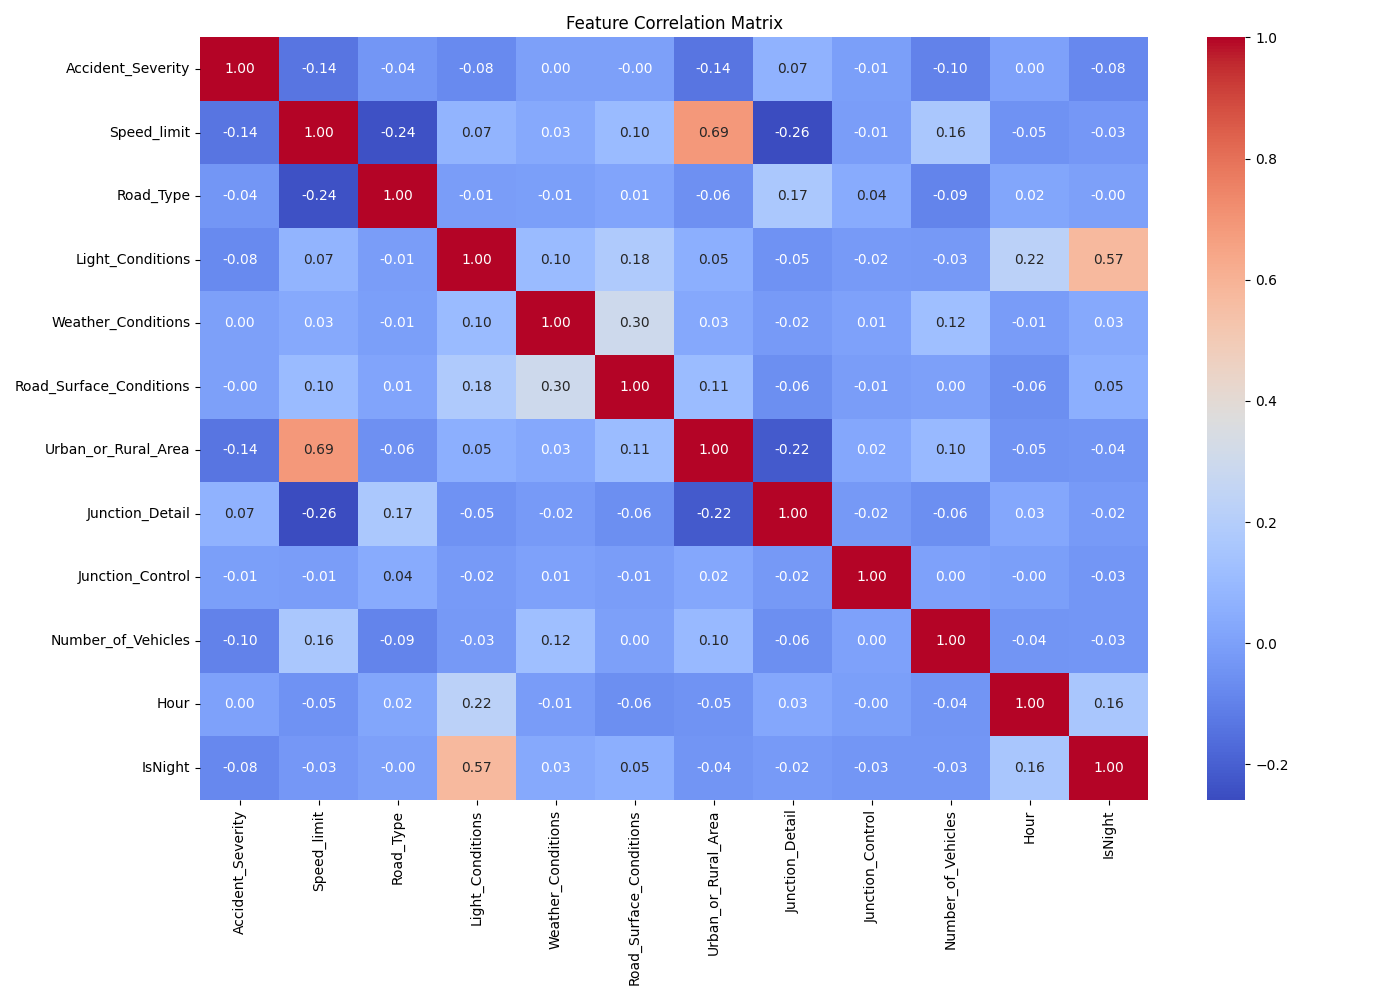
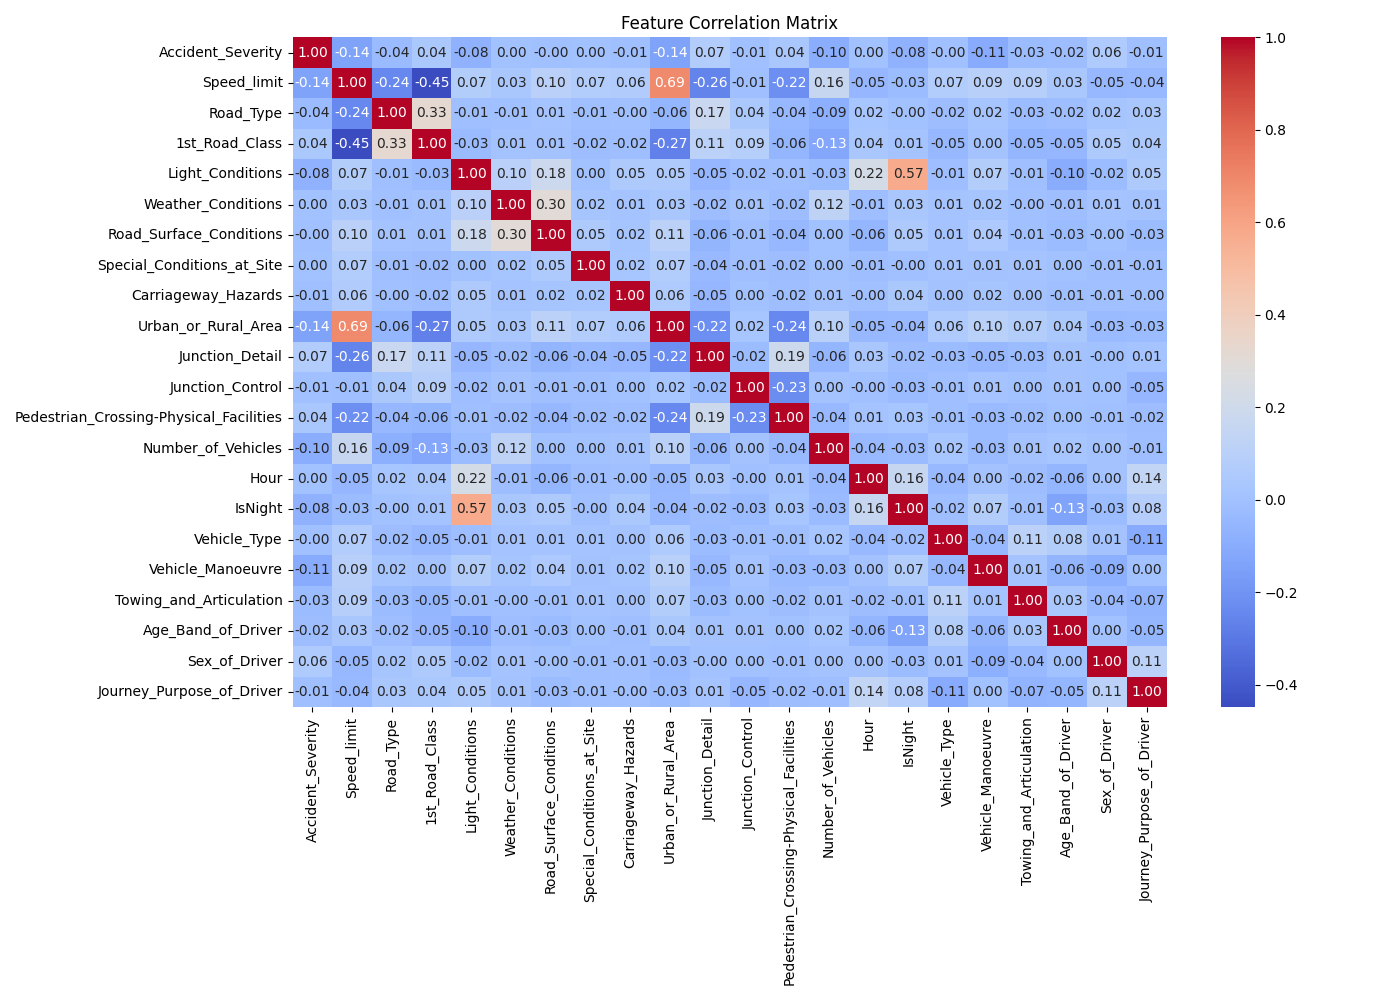
better reordering

diff --git a/src/feature_selection.py b/src/feature_selection.py
@@ -40,22 +40,27 @@ def run():
     # Hour and IsNight are kept because visibility directly affects severity.
     keep_cols = [
         'Accident_Severity',
-        'Speed_limit', 'Road_Type', 'Light_Conditions',
-        'Weather_Conditions', 'Road_Surface_Conditions', 'Urban_or_Rural_Area',
-        'Junction_Detail', 'Junction_Control', 'Number_of_Vehicles',
-        'Hour', 'IsNight'
-        # Number_of_Casualties intentionally excluded — data leakage:
-        # casualty count is only known after the accident, same time as severity.
-        # Month, DayOfWeek, IsWeekend excluded — frequency features, not severity features.
+        # Road conditions
+        'Speed_limit', 'Road_Type', '1st_Road_Class',
+        'Light_Conditions', 'Weather_Conditions', 'Road_Surface_Conditions',
+        'Special_Conditions_at_Site', 'Carriageway_Hazards',
+        'Urban_or_Rural_Area', 'Junction_Detail', 'Junction_Control',
+        'Pedestrian_Crossing-Physical_Facilities',
+        # Accident context
+        'Number_of_Vehicles', 'Hour', 'IsNight',
+        # Vehicle features
+        'Vehicle_Type', 'Vehicle_Manoeuvre', 'Towing_and_Articulation',
+        # Driver features
+        'Age_Band_of_Driver', 'Sex_of_Driver', 'Journey_Purpose_of_Driver',
+        # Excluded — data leakage (known only after crash):
+        #   Number_of_Casualties, Casualty_Severity, Skidding_and_Overturning,
+        #   Hit_Object_in_Carriageway, Vehicle_Leaving_Carriageway, 1st_Point_of_Impact
+        # Excluded — frequency not severity predictors:
+        #   Month, DayOfWeek, IsWeekend
     ]
 
     keep_cols = [c for c in keep_cols if c in df.columns]
-    missing = [c for c in [
-        'Accident_Severity', 'Speed_limit', 'Road_Type', 'Light_Conditions',
-        'Weather_Conditions', 'Road_Surface_Conditions', 'Urban_or_Rural_Area',
-        'Junction_Detail', 'Junction_Control', 'Number_of_Vehicles',
-        'Hour', 'IsNight'
-    ] if c not in df.columns]
+    missing = [c for c in keep_cols if c not in df.columns]
     if missing:
         print(f"Warning — columns not found (skipped): {missing}")
 
@@ -63,6 +68,7 @@ def run():
     print(f"Shape after column selection: {df.shape}")
     print(f"Columns kept: {keep_cols}")
     print("\nNote: Month, DayOfWeek, IsWeekend removed (frequency not severity predictors).")
+    print("Note: Number_of_Casualties, crash outcome cols removed (data leakage).")
     print("Note: Number_of_Casualties removed (data leakage — known only after accident).")
 
     # ------------------------------------------------------------------
